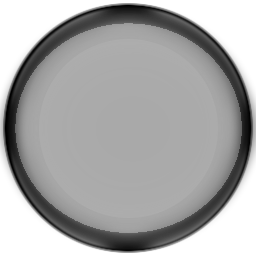
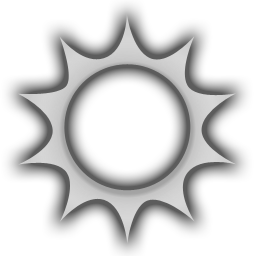
changed texture for the uncapturable base in domination mode. The outer ring of cells now rotate

diff --git a/ParticleStormControl/ParticleStormControl/InGame/Level/SpawnPoint.cs b/ParticleStormControl/ParticleStormControl/InGame/Level/SpawnPoint.cs
@@ -147,7 +147,7 @@ namespace VirusX
                              null, color, (float)gameTime.TotalGameTime.TotalSeconds + randomAngle,
                              new Vector2(nucleusTexture_inner.Width * 0.5f, nucleusTexture_inner.Height * 0.5f),
                              level.ComputeTextureScale(innerSize, nucleusTexture_inner.Width), SpriteEffects.None, 0.7f);
-            spriteBatch.Draw(nucleusTexture_outer, level.ComputePixelPosition(Position), null, color, 0,
+            spriteBatch.Draw(nucleusTexture_outer, level.ComputePixelPosition(Position), null, color, -(float)gameTime.TotalGameTime.TotalSeconds + randomAngle,//0,
                 new Vector2(nucleusTexture_outer.Width * 0.5f, nucleusTexture_outer.Height * 0.5f),
                             level.ComputeTextureScale(Size, nucleusTexture_inner.Width), SpriteEffects.None, 0.6f);
 
